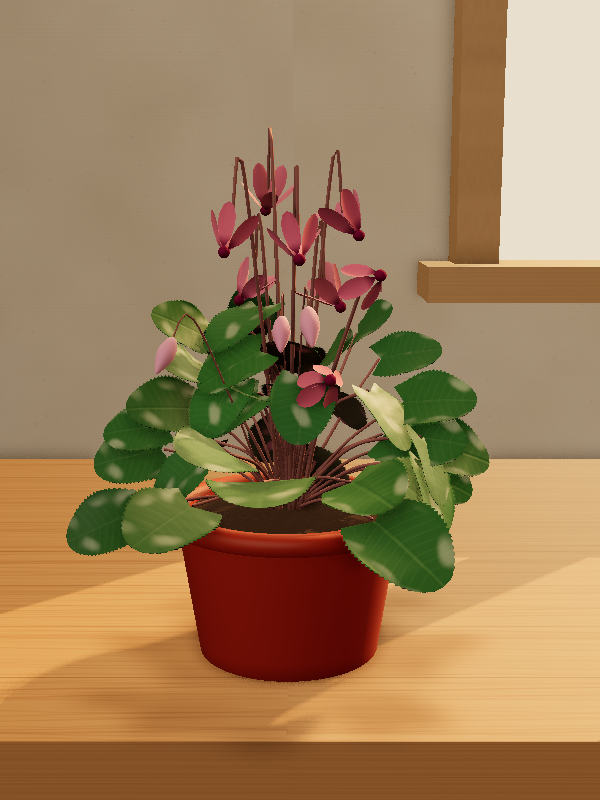
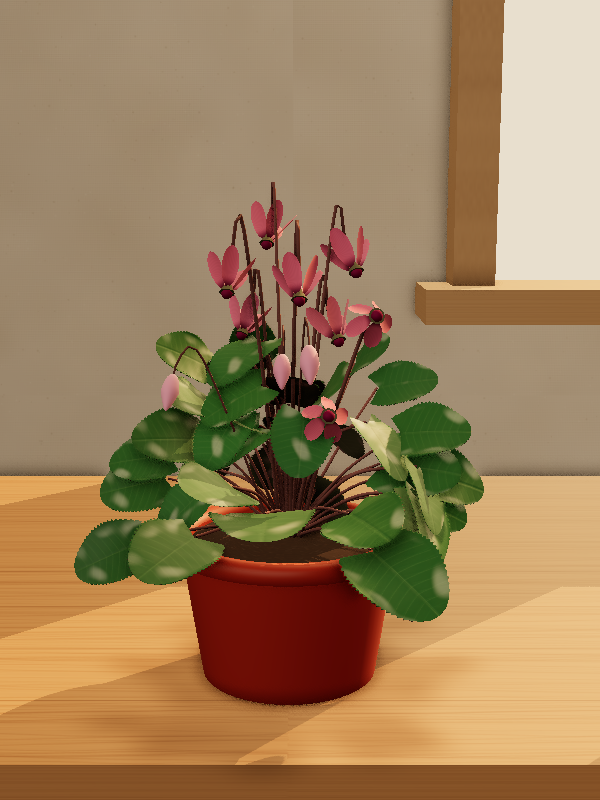
fix(3d): ground flowers with continuous junctions, local shadow and occlusion
- Calyx is a truncated cone matching the stalk radius (no pinch at the join);
  flower stalks on stemmed plants grow from the nearest photographed stem top.
- Sun shadows: frustum fitted to the plant, normalBias 2 cm -> 2 mm (it erased
  all petal-scale shadows), tighter PCSS, stronger GTAO.
- Fake contact occlusion: petal bases darken into the calyx; stalks darken at
  their junctions and under the heads they carry.
- Petals share the leaves' thin-tissue lighting, with less sheen/env glow.

Changed region(s): [[0.0, 0.0938, 1.0, 0.9688], [0.75, 0.0, 0.78, 0.1562], [0.84, 0.0, 0.87, 0.0625]]

diff --git a/web/src/three/Flowers.tsx b/web/src/three/Flowers.tsx
@@ -1,5 +1,5 @@
 import { useEffect, useLayoutEffect, useMemo, useRef } from "react";
-import { BufferGeometry, Color, ConeGeometry, CylinderGeometry, DoubleSide, Float32BufferAttribute, InstancedMesh, Matrix4, MeshPhysicalMaterial, MeshStandardMaterial, Quaternion, SphereGeometry, Vector3 } from "three";
+import { BufferGeometry, Color, CylinderGeometry, DoubleSide, Float32BufferAttribute, InstancedMesh, Matrix4, MeshPhysicalMaterial, MeshStandardMaterial, Quaternion, SphereGeometry, Vector3 } from "three";
 import type { PlantState } from "@rootsight/shared/schema";
 import type { SpeciesFlowering } from "@rootsight/shared/schema";
 import { stemGeometry } from "./StemGeometry";
@@ -80,8 +80,11 @@ function budGeometry(): BufferGeometry {
 const SPHERE = new SphereGeometry(1, 16, 12);
 const SPADIX = new CylinderGeometry(0.75, 1, 1, 8).rotateX(Math.PI / 2).translate(0, 0, 0.5);
 const BUD = budGeometry();
-/** Calyx / receptacle: a cone with its apex at the stalk end (origin) and its rim at z = 1. */
-const CALYX = new ConeGeometry(1, 1, 14).rotateX(-Math.PI / 2).translate(0, 0, 0.5);
+/**
+ * Calyx / receptacle: a truncated cone from the stalk end (origin, radius 0.28 so it is as thick as the
+ * stalk there: a continuous junction, no pinch) to its rim inside the petals at z = 1.
+ */
+const CALYX = new CylinderGeometry(0.28, 1, 1, 14).rotateX(-Math.PI / 2).translate(0, 0, 0.5);
 const Z = new Vector3(0, 0, 1);
 const UP = new Vector3(0, 1, 0);
 
@@ -175,9 +178,9 @@ export default function Flowers({ profile, state, v }: { profile: PlantProfile; 
   const parts = useMemo(() => flowerInstances(layout.organs, flowering, colors, v.seed, state.wilt), [layout, flowering, colors, v.seed, state.wilt]);
   const resources = useMemo(() => {
     // Soft velvety petals: sheen, gentle roughness, light through thin tissue; faint veins and a paler back.
-    const petal = new MeshPhysicalMaterial({ color: "#ffffff", roughness: 0.52, side: DoubleSide, sheen: 0.7, sheenRoughness: 0.5, sheenColor: new Color(colors.flower).lerp(new Color("#ffffff"), 0.55), specularIntensity: 0.3 });
+    const petal = new MeshPhysicalMaterial({ color: "#ffffff", roughness: 0.55, side: DoubleSide, envMapIntensity: 0.75, sheen: 0.4, sheenRoughness: 0.5, sheenColor: new Color(colors.flower).lerp(new Color("#ffffff"), 0.55), specularIntensity: 0.3 });
     petal.onBeforeCompile = shader => {
-      thinTissue(shader, 1.1, 0.6); // petals glow when the sun is behind them
+      thinTissue(shader, 0.65, 0.45); // same thin-tissue light as the leaves: petals belong to the plant, they don't glow apart
       shader.uniforms.centerColor = { value: new Color(colors.center) };
       shader.vertexShader = "attribute float petalT; attribute vec2 petalUv; varying float vPetalT; varying vec2 vPetalUv;\n" + shader.vertexShader.replace("#include <begin_vertex>", "#include <begin_vertex>\nvPetalT = petalT; vPetalUv = petalUv;");
       shader.fragmentShader = "uniform vec3 centerColor; varying float vPetalT; varying vec2 vPetalUv;\n" + shader.fragmentShader.replace("#include <color_fragment>", `#include <color_fragment>
@@ -185,6 +188,8 @@ export default function Flowers({ profile, state, v }: { profile: PlantProfile; 
         float vein = 0.5 + 0.5 * cos((vPetalUv.x - 0.5) * 64.0 / max(0.3, vPetalUv.y + 0.25));
         diffuseColor.rgb *= (0.95 + 0.05 * vein) * (1.0 + 0.07 * smoothstep(0.55, 1.0, across));
         diffuseColor.rgb = mix(centerColor, diffuseColor.rgb, smoothstep(0.06, 0.34, vPetalT));
+        // Occlusion where petals crowd into the calyx: the flower sits in its own shade, not on air.
+        diffuseColor.rgb *= mix(0.5, 1.0, smoothstep(0.0, 0.3, vPetalT));
         if (!gl_FrontFacing) diffuseColor.rgb = mix(diffuseColor.rgb, vec3(dot(diffuseColor.rgb, vec3(0.3, 0.59, 0.11))), 0.12) * 1.06;`);
     };
     petal.customProgramCacheKey = () => "rootsight-petal-v2";

diff --git a/web/src/components/SceneCanvas.tsx b/web/src/components/SceneCanvas.tsx
@@ -38,7 +38,7 @@ export default function SceneCanvas({ state, profile, cutaway = false, children 
     >
       {children}
       {/* Soft penumbrae that widen with distance, like real window light. */}
-      <SoftShadows size={16} samples={10} focus={0.6} />
+      <SoftShadows size={9} samples={12} focus={0.5} />
       <Interior floorY={table} height={state.heightCm / 100} halfWidth={Math.max(potR, plantWidth / 2)} />
       <AmbientOcclusion radius={Math.max(0.03, state.heightCm / 100 * 0.12)} />
 
@@ -71,7 +71,7 @@ function AmbientOcclusion({ radius }: { radius: number }) {
     const composer = new EffectComposer(gl);
     composer.addPass(new RenderPass(scene, camera));
     const ao = new GTAOPass(scene, camera, 512, 512);
-    ao.blendIntensity = 0.85;
+    ao.blendIntensity = 1;
     // Transparent contact-shadow planes would read as solid ground in the AO pre-pass: hide them there.
     // ponytail: patches a private GTAOPass hook; if three renames it, AO simply includes those planes again.
     const pass = ao as unknown as { _overrideVisibility: () => void; _visibilityCache: Object3D[] };
@@ -89,7 +89,7 @@ function AmbientOcclusion({ radius }: { radius: number }) {
   }, [gl, scene, camera]);
   useEffect(() => () => composer.dispose(), [composer]);
   useEffect(() => { composer.setPixelRatio(gl.getPixelRatio()); composer.setSize(size.width, size.height); }, [composer, gl, size]);
-  useEffect(() => { ao.updateGtaoMaterial({ radius, distanceExponent: 1.4, thickness: radius * 2, scale: 1, samples: 16 }); ao.updatePdMaterial({ radius: 6 }); }, [ao, radius]);
+  useEffect(() => { ao.updateGtaoMaterial({ radius, distanceExponent: 1.4, thickness: radius * 2, scale: 1.3, samples: 16 }); ao.updatePdMaterial({ radius: 6 }); }, [ao, radius]);
   // Priority 1 takes over rendering from R3F; frameloop="demand" still only renders when invalidated.
   useFrame(() => composer.render(), 1);
   return null;

diff --git a/web/src/three/Interior.tsx b/web/src/three/Interior.tsx
@@ -69,13 +69,14 @@ export default function Interior({ floorY, height, halfWidth }: { floorY: number
     const behind = local.copy(camera.position).applyEuler(TO_ROOM).z < wallZ + 0.05;
     if (wallGroup.current && wallGroup.current.visible === behind) wallGroup.current.visible = !behind;
   });
-  const reach = Math.max(1.2, S * 2.4);
+  // A tight sun frustum around the plant: sub-millimetre texels, so petals and stalks shadow each other.
+  const reach = Math.max(0.5, S * 1.6);
 
   return <>
     <color attach="background" args={["#d9c3a5"]} />
     {/* Late-afternoon sun through the window; the wall around it gives the frame's soft shadow. */}
     <directionalLight position={toWorld(SUN).multiplyScalar(6).add(aim)} intensity={4.2} color="#ffc486" castShadow
-      shadow-mapSize={[2048, 2048]} shadow-bias={-0.0003} shadow-normalBias={0.02}
+      shadow-mapSize={[2048, 2048]} shadow-bias={-0.0002} shadow-normalBias={0.002}
       shadow-camera-left={-reach} shadow-camera-right={reach} shadow-camera-top={reach} shadow-camera-bottom={-reach} shadow-camera-near={1} shadow-camera-far={14} />
     {/* Warm bounce from the room behind the camera: the plant's front never goes flat or black. */}
     <hemisphereLight args={["#f8e9d6", "#7a5638", 0.6]} />

diff --git a/web/src/three/bloomLayout.ts b/web/src/three/bloomLayout.ts
@@ -118,9 +118,14 @@ export function bloomLayout(p: PlantProfile, state: PlantState, v: Visual): Bloo
     const size = sizeOf(c.kind);
     const n = Math.max(1, Math.round(c.florets * thin));
     // Peduncle: rosettes raise their flowers from the crown; stems carry theirs a stalk's length below.
+    // On a stemmed plant the flower stalk grows out of the nearest photographed stem's top (where the layout
+    // ends that stem), otherwise out of the plant's core: never from a point in mid-air.
+    const tips = (p.individual?.stems ?? []).map(st => frame.at(st.tipX, Math.min(st.tipY, foliageTop), LAYER_DEPTH[st.layer] * 0.6));
+    const nearestTip = tips.sort((a, b) => a.distanceTo(centre) - b.distanceTo(centre))[0];
     const anchor = rosette
       ? new Vector3(centre.x * 0.15, 0.005, centre.z * 0.15)
-      : new Vector3(centre.x * 0.55, Math.max(0.005, centre.y - stalkLength), centre.z * 0.55);
+      : nearestTip && nearestTip.y < centre.y ? nearestTip.clone()
+      : new Vector3(centre.x * 0.25, Math.max(0.005, centre.y - stalkLength * 1.2), centre.z * 0.25);
     // Organs first (their final size decides where the stalk must end), then the stalks that carry them.
     const members: BloomOrgan[] = [];
     for (let f = 0; f < n; f++) {

diff --git a/web/src/three/StemGeometry.ts b/web/src/three/StemGeometry.ts
@@ -28,7 +28,9 @@ export function stemGeometry(paths: StemPath[]): BufferGeometry {
       const radius = path.radius * (1 - path.taper * Math.pow(t, 1.15)) * (1 + flare * Math.exp(-t * 9)) * (1 + swell * Math.sin(t * 6.1 + phase) * Math.sin(t * 2.3 + phase * 0.7));
       // Woody and darker toward the base of main stems, fresher toward every tip; a slow streaky variation.
       const age = woody * (1 - t) ** 1.4, streak = 1 + 0.045 * Math.sin(t * 13 + phase * 2);
-      const tint = [(1 - 0.22 * age) * streak * (1 + 0.1 * age), (1 - 0.3 * age) * streak, (1 - 0.42 * age) * streak * (1 - 0.06 * age)];
+      // Junction occlusion: darker where a stalk leaves its parent, and under the head it carries.
+      const shade = (1 - 0.22 * (1 - Math.min(1, t / 0.15))) * (path.depth >= 3 ? 1 - 0.35 * Math.max(0, (t - 0.8) / 0.2) : 1);
+      const tint = [(1 - 0.22 * age) * streak * (1 + 0.1 * age) * shade, (1 - 0.3 * age) * streak * shade, (1 - 0.42 * age) * streak * (1 - 0.06 * age) * shade];
       for (let j = 0; j <= sides; j++) {
         const angle = j / sides * Math.PI * 2;
         const ellipse = 1 + oval * Math.cos(2 * angle + turn * t + phase);

diff --git a/docs/photo-reconstruction/README.md b/docs/photo-reconstruction/README.md
@@ -71,6 +71,19 @@ The layout is untouched: the same organs sit in the same places. What changed is
   - The pivot sits a little above the middle of the plant.
   - The wall and window hide themselves when the camera passes behind them.
 
+## Grounding pass
+
+Flowers are anchored by geometry, shadow and light. Otherwise they look pasted onto the plant.
+
+- **Geometry.**
+  - The calyx is a truncated cone as thick as the stalk where they meet, so there is no pinch.
+  - On stemmed plants, flower stalks grow out of the nearest photographed stem top (or the plant's core), never from mid-air.
+- **Shadow.**
+  - The sun's shadow frustum is fitted to the plant, giving sub-millimetre texels. `normalBias` went from 2 cm to 2 mm; 2 cm was larger than a petal and erased every local shadow.
+  - Tighter PCSS penumbrae and stronger GTAO add to it.
+- **Occlusion.** Petals darken where they crowd into the calyx, and stalks darken where they leave their parent and under the head they carry.
+- **Coherent light.** Petals use the leaves' thin-tissue shading, with less sheen and environment light, so a flower no longer glows apart from its plant.
+
 ## Run it live
 
 ```sh
